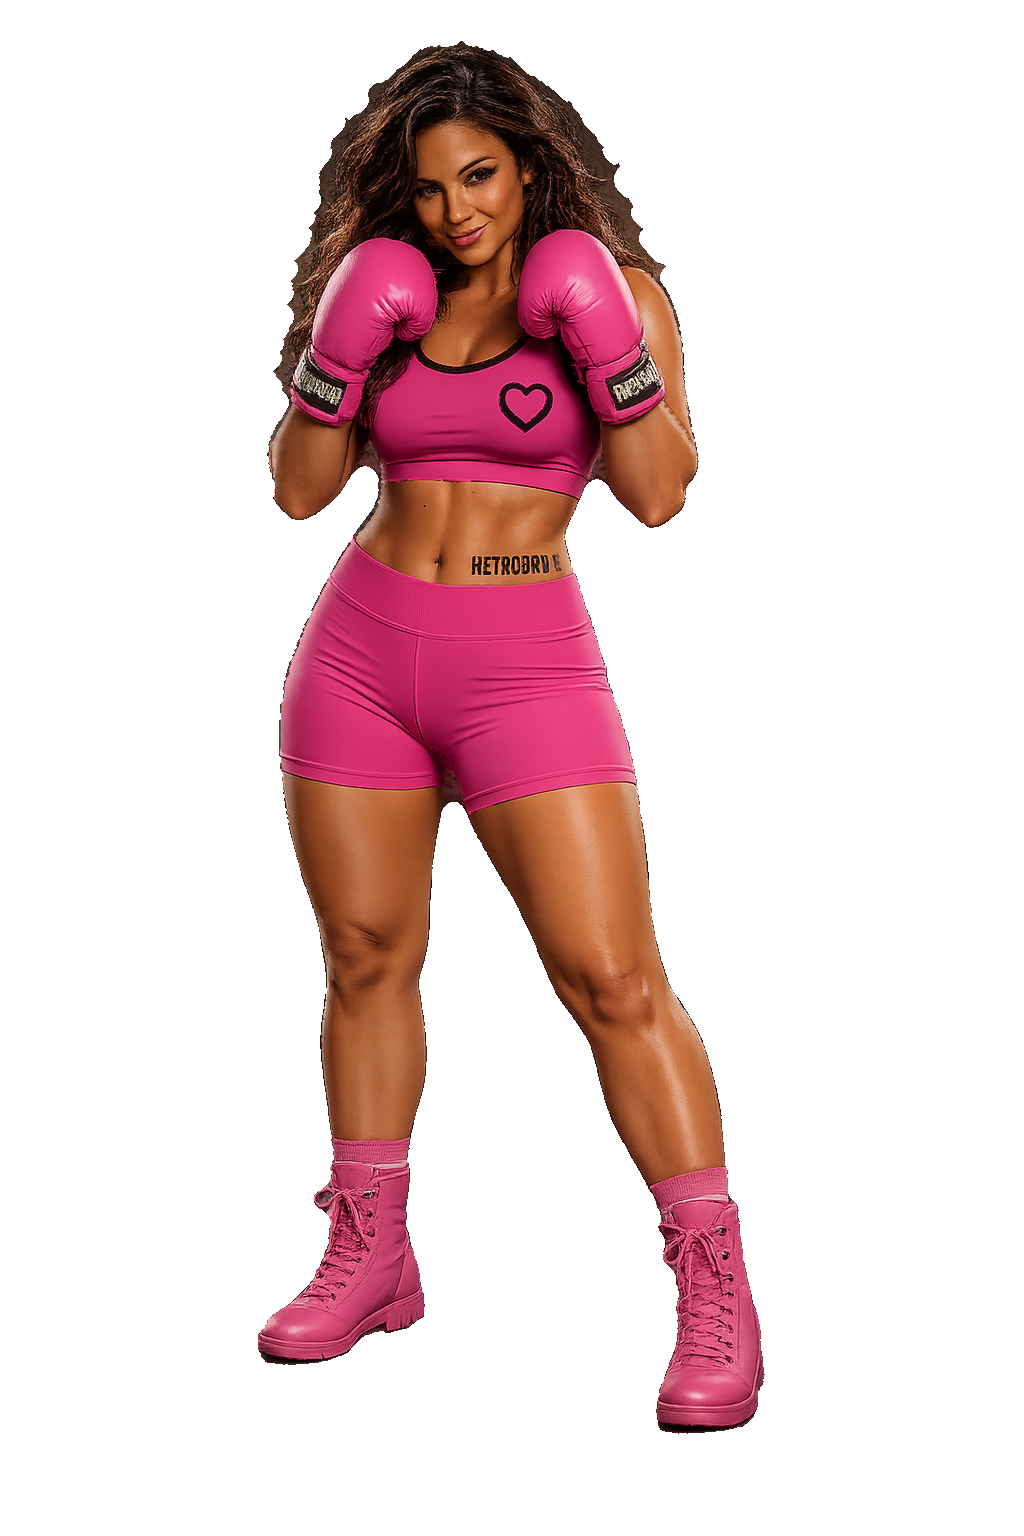
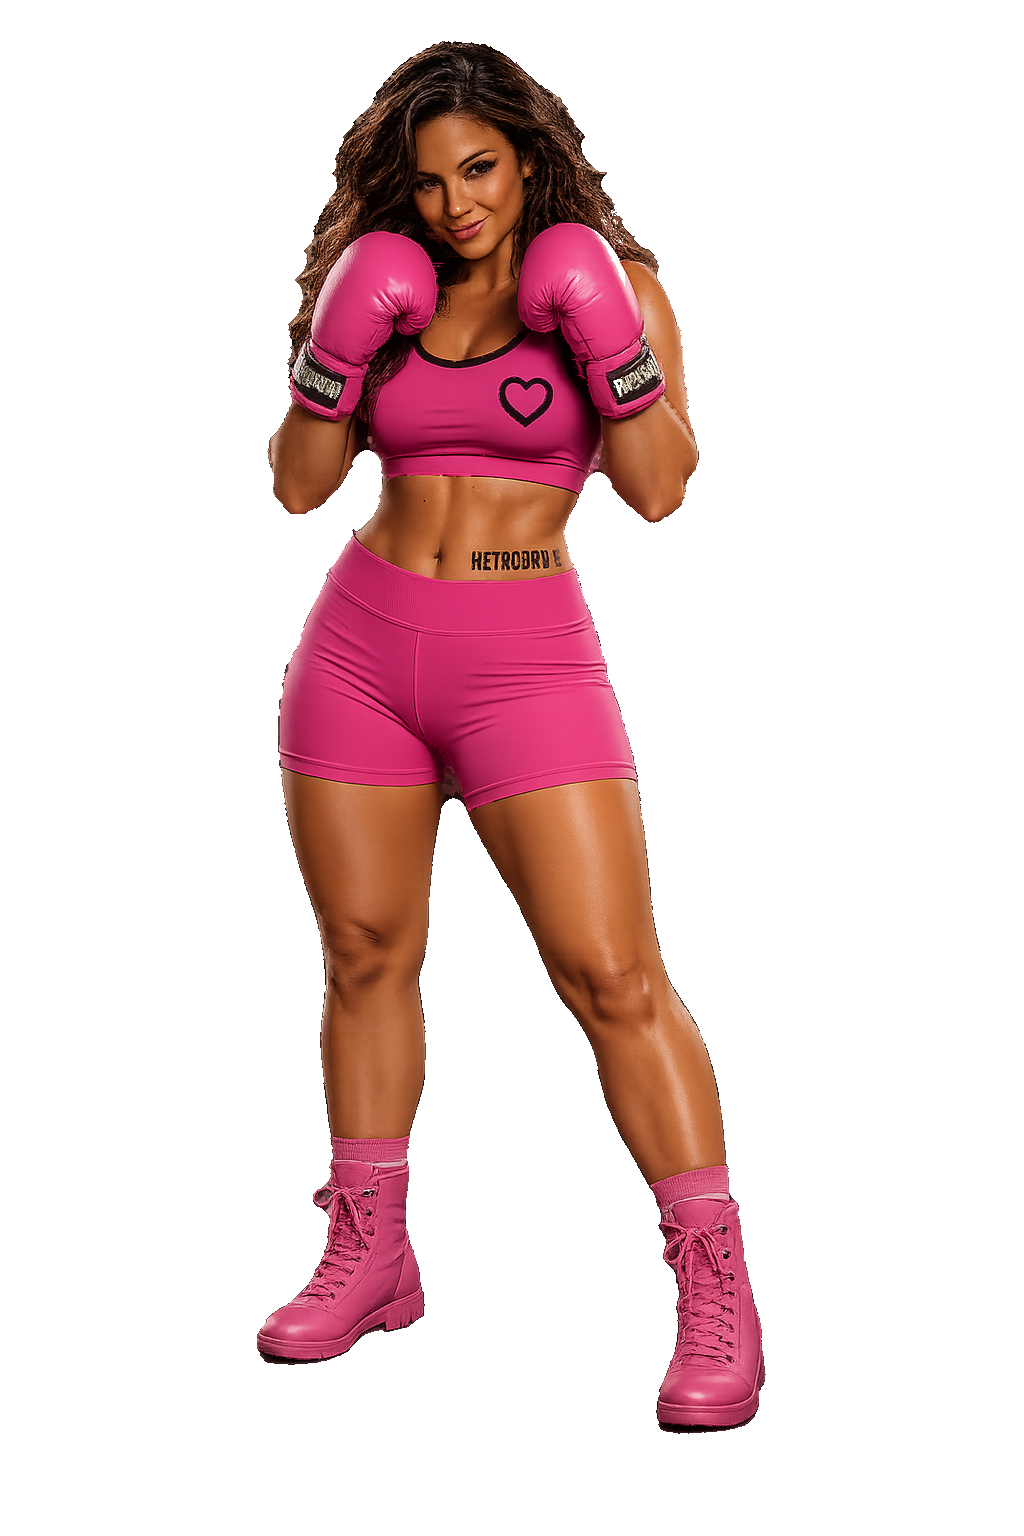
Fix Default Female idle: clear hair matte and armpit wedges

diff --git a/frontend/scripts/bake_default_female_ring_poses.py b/frontend/scripts/bake_default_female_ring_poses.py
@@ -15,6 +15,7 @@ from pathlib import Path
 
 import numpy as np
 from PIL import Image
+from scipy import ndimage
 
 from bake_bozza_ring_poses import assert_solid, pack, remove_bg, seal_silhouette
 
@@ -30,6 +31,136 @@ USER_IMPORTS = {
     'ooh': REPO_ROOT / 'file_00000000bcb481f4b197416e7096600a.png',
     'knockout': REPO_ROOT / 'file_00000000059481f4a3929a6a5c7301e0.png',
 }
+
+
+def peel_exterior_fringe(
+    arr: np.ndarray,
+    *,
+    pale: bool = False,
+    dark: bool = False,
+    region: np.ndarray | None = None,
+    passes: int = 40,
+) -> np.ndarray:
+    """Flood transparency through pale or dark matting touching the exterior."""
+    out = arr.copy()
+    rgb = out[:, :, :3].astype(np.int16)
+    for _ in range(passes):
+        alpha = out[:, :, 3]
+        mx = rgb.max(axis=2)
+        chroma = mx - rgb.min(axis=2)
+        clear = alpha < 40
+        if pale:
+            fringe = (alpha > 0) & (mx > 200) & (chroma < 45)
+        elif dark:
+            fringe = (alpha > 0) & (mx < 85) & (chroma < 50)
+        else:
+            break
+        grow = ndimage.binary_dilation(clear, iterations=1) & fringe
+        if region is not None:
+            grow &= region
+        if not grow.any():
+            break
+        out[grow, 3] = 0
+    return out
+
+
+def peel_dark_hair_matte(arr: np.ndarray) -> np.ndarray:
+    """Remove dark gray studio matting hugging the hair outline."""
+    out = arr.copy()
+    crown = head_crown_mask(out)
+    rgb = out[:, :, :3].astype(np.int16)
+    alpha = out[:, :, 3]
+    mx = rgb.max(axis=2)
+    chroma = mx - rgb.min(axis=2)
+    clear = alpha < 40
+    near_clear = ndimage.binary_dilation(clear, iterations=5)
+    matte = crown & near_clear & (alpha > 0) & (mx >= 30) & (mx < 130) & (chroma < 60)
+    out[matte, 3] = 0
+    # Semi-transparent dark fringe on the hair edge.
+    fringe = crown & (alpha > 10) & (alpha < 240) & (mx < 100) & (chroma < 50)
+    out[fringe & near_clear, 3] = 0
+    return out
+
+
+def finalize_idle(arr: np.ndarray) -> np.ndarray:
+    """Peel leftover white matting on the outer silhouette only."""
+    return peel_exterior_fringe(arr, pale=True, passes=40)
+
+
+def head_crown_mask(body: np.ndarray) -> np.ndarray:
+    solid = body[:, :, 3] > 40
+    if not solid.any():
+        return np.zeros(solid.shape, dtype=bool)
+    ys, xs = np.where(solid)
+    y0, y1, x0, x1 = int(ys.min()), int(ys.max()), int(xs.min()), int(xs.max())
+    fig_h = y1 - y0
+    mask = np.zeros(solid.shape, dtype=bool)
+    crown_y1 = y0 + int(0.45 * fig_h)
+    pad = int((x1 - x0) * 0.10)
+    mask[y0:crown_y1, max(0, x0 - pad) : min(body.shape[1], x1 + pad + 1)] = True
+    return mask
+
+
+def armpit_clear_mask_idle(body: np.ndarray) -> np.ndarray:
+    """Narrow wedges in the gaps between inner arms and torso (guard pose)."""
+    solid = body[:, :, 3] > 40
+    if not solid.any():
+        return np.zeros(solid.shape, dtype=bool)
+    ys, xs = np.where(solid)
+    y0, y1, x0, x1 = int(ys.min()), int(ys.max()), int(xs.min()), int(xs.max())
+    fig_h, fig_w = y1 - y0, x1 - x0
+
+    mask = np.zeros(solid.shape, dtype=bool)
+    y_top = y0 + int(0.12 * fig_h)
+    y_bot = y0 + int(0.46 * fig_h)
+    for y in range(y_top, y_bot):
+        t = (y - y_top) / max(1, y_bot - y_top - 1)
+        # Left armpit pocket (between left glove/arm and torso).
+        lx0 = x0 + int(fig_w * (0.30 + 0.03 * t))
+        lx1 = x0 + int(fig_w * (0.40 - 0.02 * t))
+        mask[y, lx0:lx1] = True
+        # Right armpit pocket (between torso and right glove/arm).
+        rx0 = x0 + int(fig_w * (0.58 + 0.02 * t))
+        rx1 = x0 + int(fig_w * (0.73 - 0.03 * t))
+        mask[y, rx0:rx1] = True
+
+    hull = ndimage.binary_fill_holes(ndimage.binary_closing(solid, iterations=3))
+    return mask & hull
+
+
+def punch_idle_armpit_wedges(arr: np.ndarray) -> np.ndarray:
+    """Clear pale studio fill between inner arms and torso on the guard idle pose."""
+    out = arr.copy()
+    rgb = out[:, :, :3].astype(np.int16)
+    mx = rgb.max(axis=2)
+    chroma = mx - rgb.min(axis=2)
+    wedge = armpit_clear_mask_idle(out)
+    pale = (out[:, :, 3] > 40) & (mx > 130) & (chroma < 65)
+    out[wedge & pale, 3] = 0
+    return out
+
+
+def preprocess_idle(arr: np.ndarray) -> np.ndarray:
+    out = peel_exterior_fringe(arr, pale=True)
+    out = peel_dark_hair_matte(out)
+    return out
+
+
+def assert_pose_solid(packed: Image.Image, pose: str) -> None:
+    if pose != 'idle':
+        assert_solid(packed, pose)
+        return
+    arr = np.asarray(packed)
+    allow = armpit_clear_mask_idle(arr)
+    allow = ndimage.binary_dilation(allow, iterations=5)
+    alpha = arr[:, :, 3]
+    opaque = alpha == 255
+    holes_mask = ndimage.binary_fill_holes(opaque) & ~opaque
+    holes_mask &= ~allow
+    holes = int(holes_mask.sum())
+    if holes:
+        raise SystemExit(f'{pose} not solid: holes={holes}')
+    print(f'{pose}: solid opaque={int(opaque.sum())}')
 
 
 def extract_face_pack(arr: np.ndarray) -> np.ndarray:
@@ -59,6 +190,8 @@ def sync_user_face_packs() -> None:
         import_path = USER_IMPORTS.get(pose)
         if import_path and import_path.exists():
             keyed = np.asarray(remove_bg(Image.open(import_path).convert('RGBA')))
+            if pose == 'idle':
+                keyed = preprocess_idle(keyed)
             Image.fromarray(extract_face_pack(keyed)).save(FACES / face_name, optimize=True)
 
 
@@ -73,6 +206,13 @@ def save_pose_outputs(pose: str, packed: Image.Image) -> None:
     print('wrote', pose)
 
 
+def bake_idle(path: Path) -> Image.Image:
+    arr = preprocess_idle(np.asarray(remove_bg(Image.open(path))))
+    packed = seal_silhouette(pack(seal_silhouette(Image.fromarray(arr))))
+    punched = punch_idle_armpit_wedges(np.asarray(packed))
+    return Image.fromarray(finalize_idle(punched))
+
+
 def main() -> None:
     OUT.mkdir(parents=True, exist_ok=True)
     FACES.mkdir(parents=True, exist_ok=True)
@@ -80,10 +220,13 @@ def main() -> None:
     for pose, path in USER_IMPORTS.items():
         if not path.exists():
             raise SystemExit(f'missing source for {pose}: {path}')
-        keyed = remove_bg(Image.open(path))
-        sealed = seal_silhouette(keyed)
-        packed = seal_silhouette(pack(sealed))
-        assert_solid(packed, pose)
+        if pose == 'idle':
+            packed = bake_idle(path)
+        else:
+            keyed = remove_bg(Image.open(path))
+            sealed = seal_silhouette(keyed)
+            packed = seal_silhouette(pack(sealed))
+        assert_pose_solid(packed, pose)
         save_pose_outputs(pose, packed)
 
 
